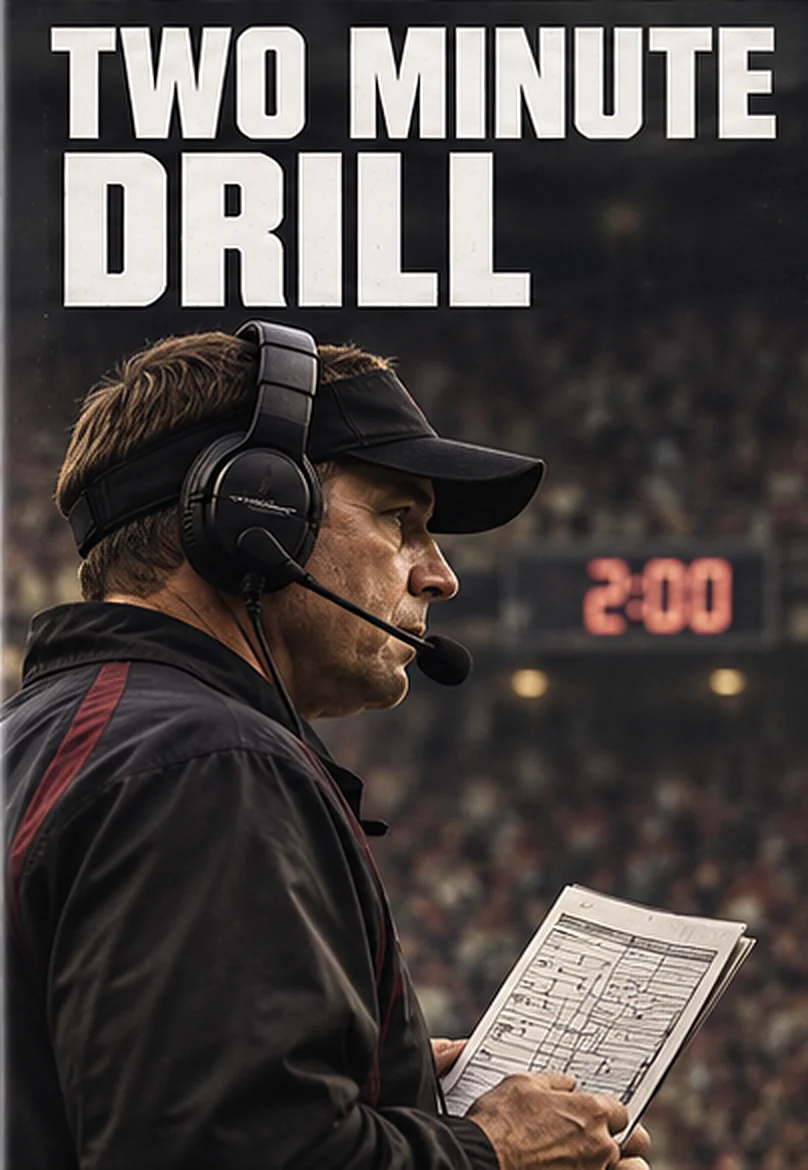
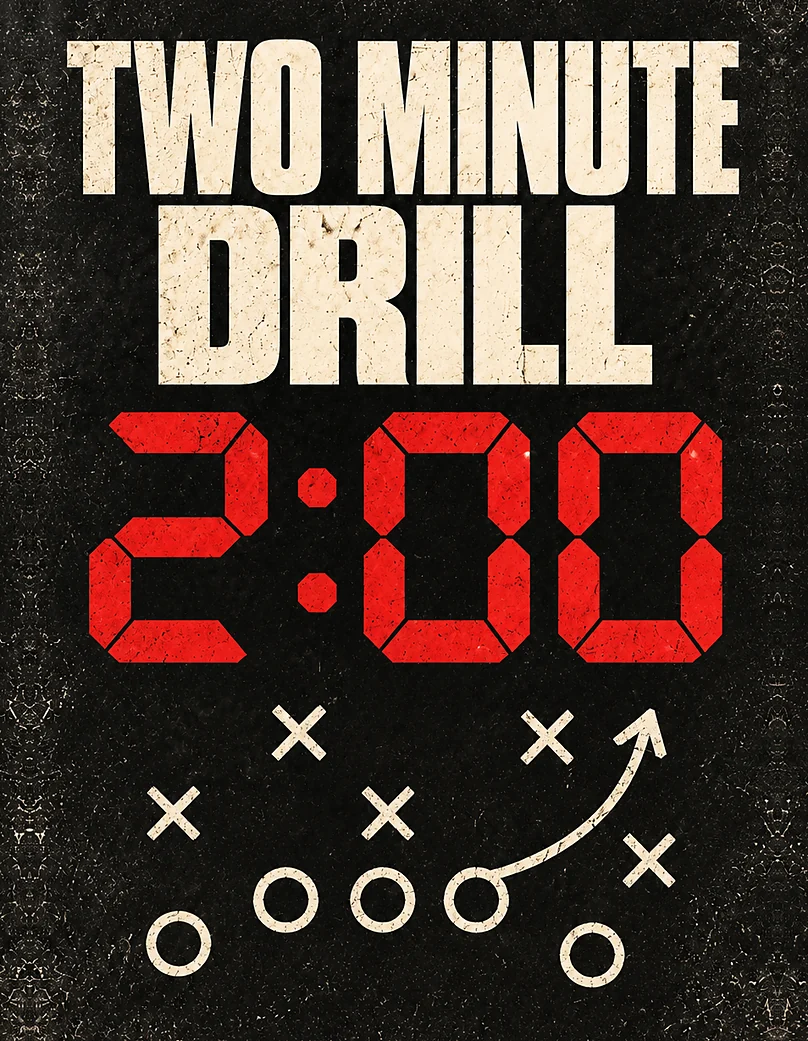
Daily Games: the Two-Minute Drill's new cover; sw CACHE gg-v267
The owner's art (the title, the red 2:00 clock and a play drawn up in X's
and O's), cut from inside the case's plastic and its glare. Its board is
taller than the case's window, so a little of the black above the title
and below the play is trimmed and the board's grain is carried out at the
sides; the title, the clock and the play show whole.

Claude-Session: https://claude.ai/code/session_01AH8E1dTJHFZcRinqqkpkzG

diff --git a/sw.js b/sw.js
@@ -7,7 +7,7 @@
 // A slow request falls back to whatever is cached under its path (from the previous worker too), so data whose
 // format changes gets a new file name rather than new content under the old one (data/puzzles-v4.json: see
 // js/core/daily.js).
-const CACHE = 'gg-v266';
+const CACHE = 'gg-v267';
 const CORE = ['ui', 'data', 'daily', 'fire', 'week', 'nfl', 'stats', 'motw', 'press', 'checks', 'checks-stats', 'checks-pickem', 'checks-press', 'checks-seventeen', 'checks-drill', 'checks-kick', 'return', 'checks-return', 'lay', 'plays', 'laytrack', 'seventeen', 'drill-sim', 'drill', 'kick', 'avatars', 'lpick', 'survivor', 'checks-lpick'];
 // The six tab roots are puzzles, pickem, rivals (Matchup), league, moves (Draft) and lay (The Lay).
 const VIEWS = ['welcome', 'guest', 'puzzles', 'games', 'board', 'you', 'sharecard', 'results', 'run', 'college', 'silhouette', 'mystery', 'journey', 'grid', 'picker',
